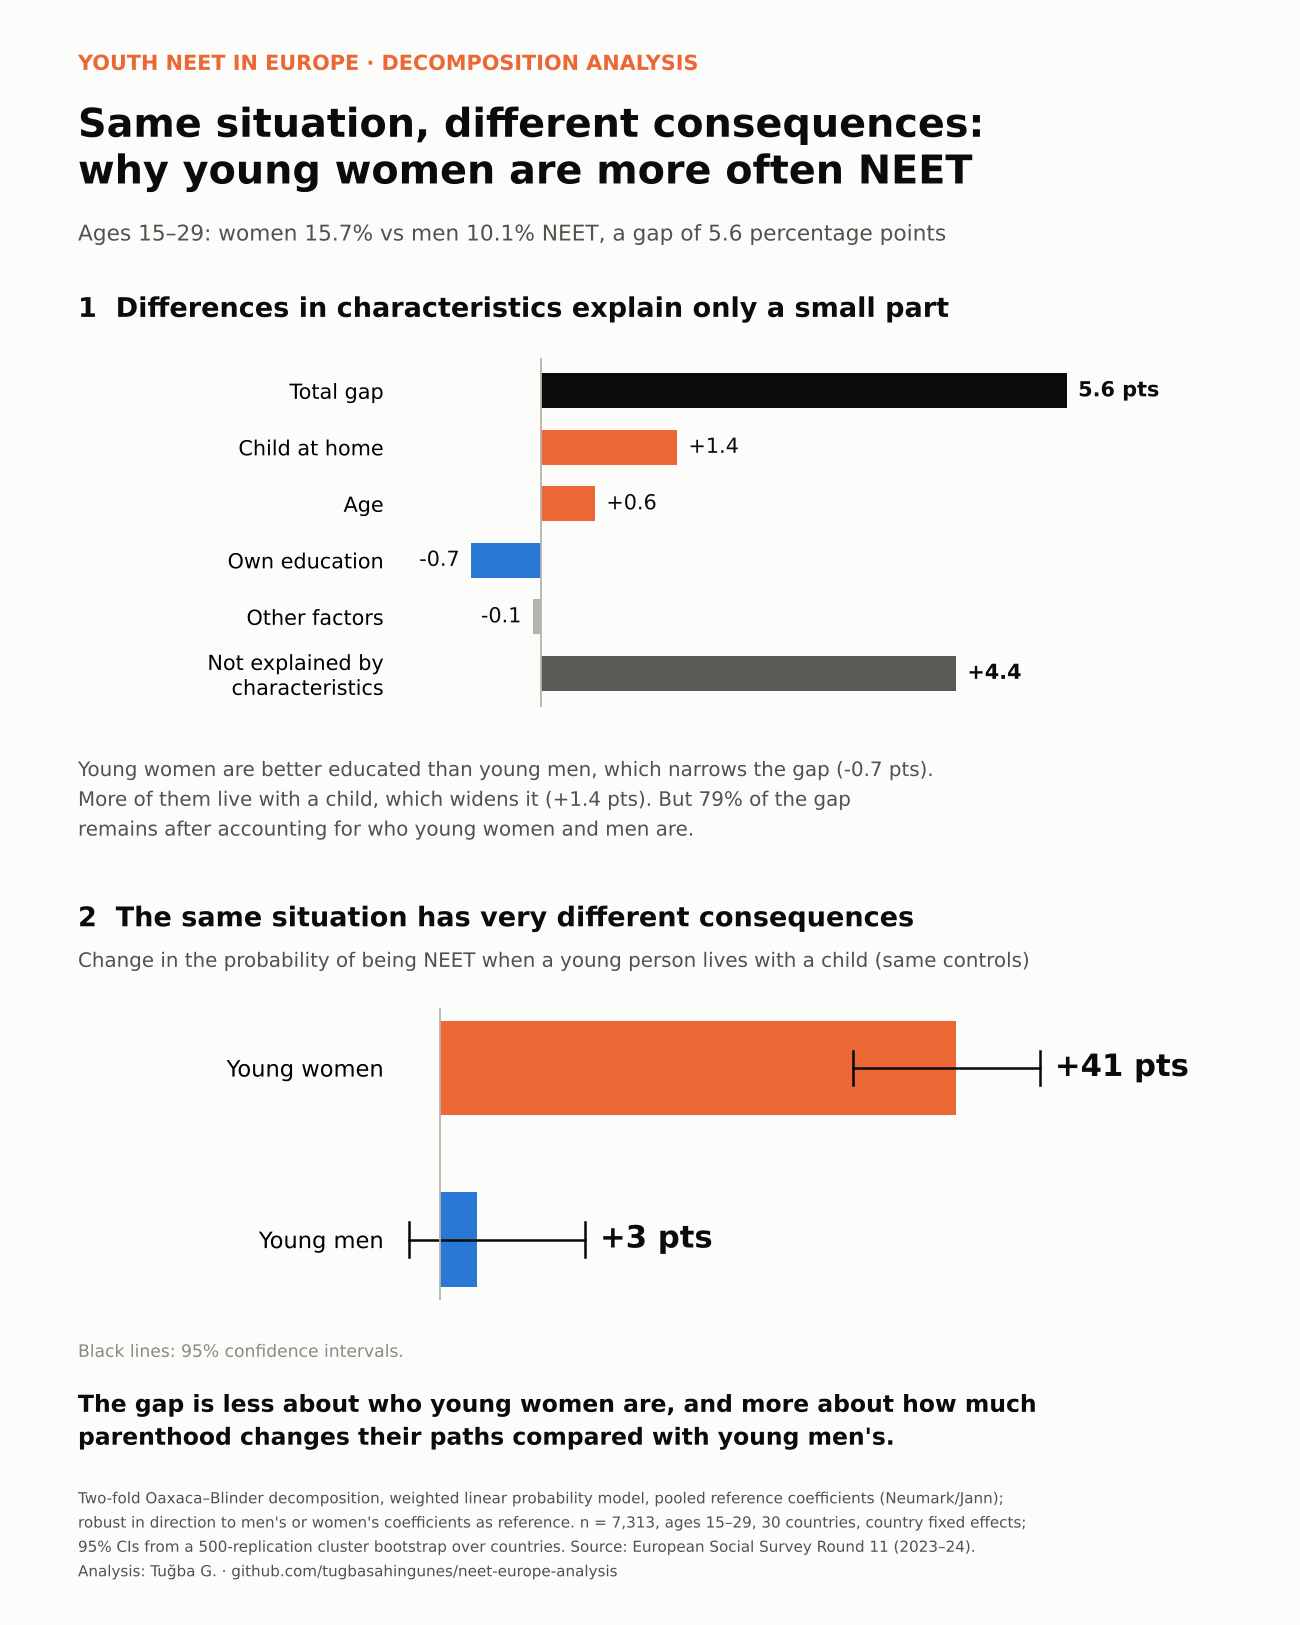
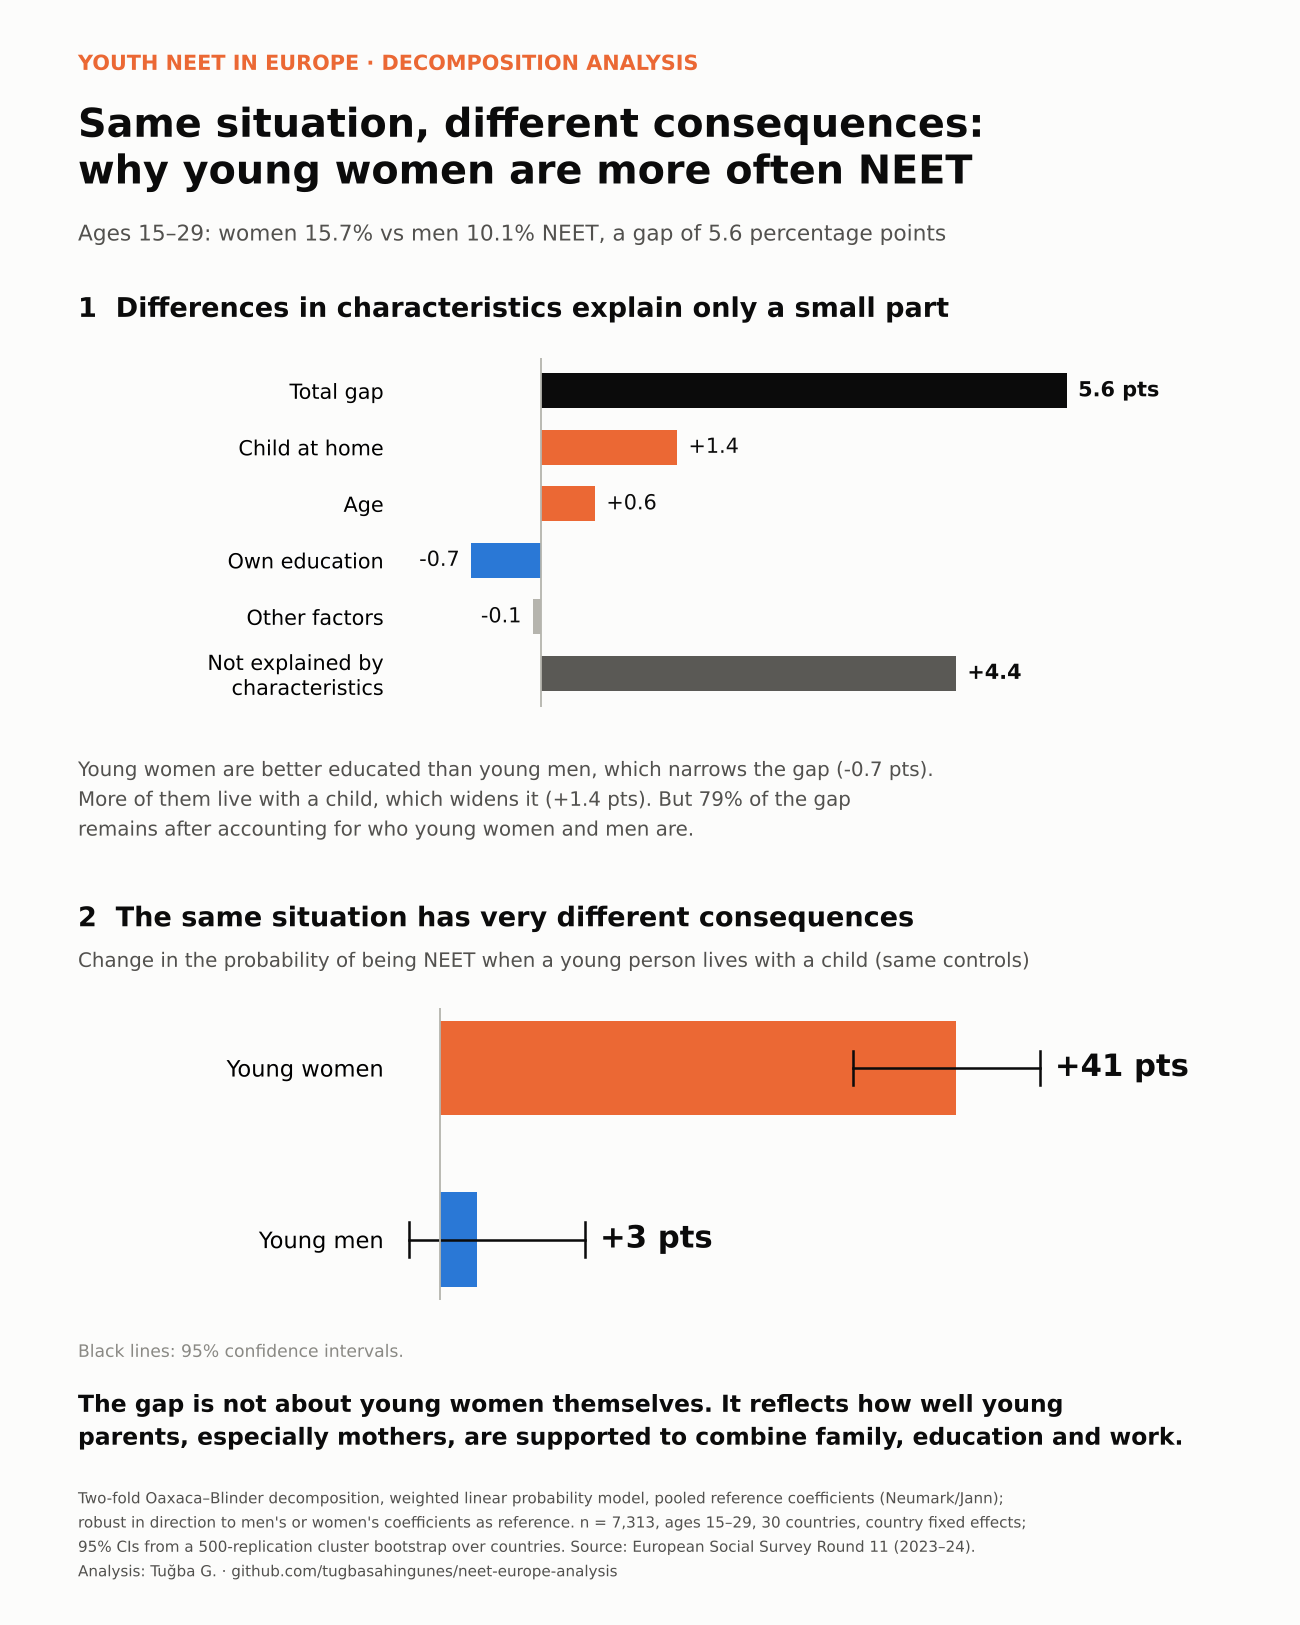
Reframe family findings around support for young parents
Claude-Session: https://claude.ai/code/session_011tzuMgGgDczwxd2DtenHW8

Changed region(s): [[0.1231, 0.8615, 0.8923, 0.8923]]

diff --git a/07_gender_gap_decomposition/analysis.py b/07_gender_gap_decomposition/analysis.py
@@ -177,7 +177,7 @@ ax2.set_yticks([1, 0]); ax2.set_yticklabels(["Young women", "Young men"], fontsi
 ax2.set_xlim(-4, 62); ax2.set_xticks([]); ax2.tick_params(length=0); ax2.axvline(0, color=GREY, lw=1)
 for s in ax2.spines.values(): s.set_visible(False)
 fig.text(0.06, 0.165, "Black lines: 95% confidence intervals.", fontsize=9.5, color=T3)
-fig.text(0.06, 0.125, "The gap is less about who young women are, and more about how much\nparenthood changes their paths compared with young men's.",
+fig.text(0.06, 0.125, "The gap is not about young women themselves. It reflects how well young\nparents, especially mothers, are supported to combine family, education and work.",
          fontsize=13, weight="bold", linespacing=1.4, va="center")
 fig.text(0.06, 0.03,
          f"Two-fold Oaxaca–Blinder decomposition, weighted linear probability model, pooled reference coefficients (Neumark/Jann);\n"

diff --git a/09_ml_neet_explainable/analysis.py b/09_ml_neet_explainable/analysis.py
@@ -191,8 +191,8 @@ for i, (k, v) in enumerate(top.items()):
 ax2.set_yticks(range(len(top))); ax2.set_yticklabels([LABELS[k] for k in top.index], fontsize=11)
 ax2.set_xticks([]); ax2.tick_params(length=0)
 for s in ax2.spines.values(): s.set_visible(False)
-fig.text(0.06, 0.41, f"Mean absolute SHAP value (log-odds). Among those living with a child, the child raises predicted\n"
-         f"risk almost twice as much for young women ({child_eff[1]:.2f}) as for young men ({child_eff[0]:.2f}).",
+fig.text(0.06, 0.41, "Mean absolute SHAP value (log-odds). Family circumstances weigh more heavily in young women's\n"
+         "predicted risk, a sign that young parents, especially mothers, need better support to combine care and work.",
          fontsize=10, color=T2, va="top", linespacing=1.45)
 
 # panel 3: fairness
